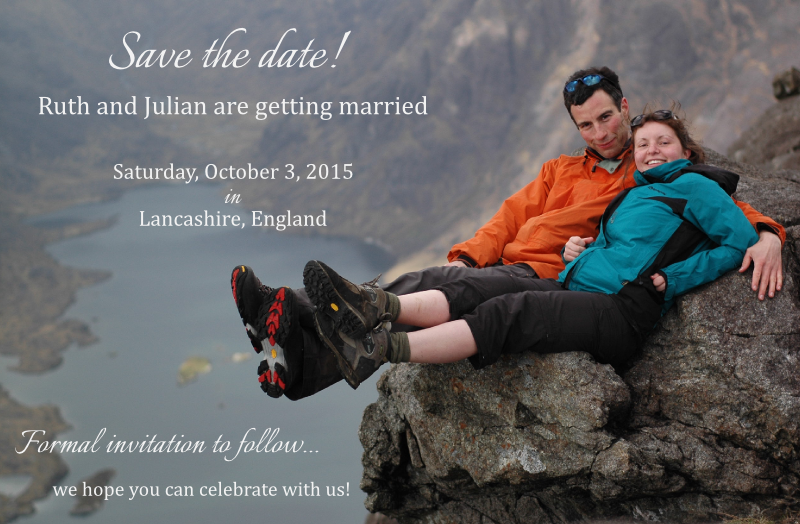
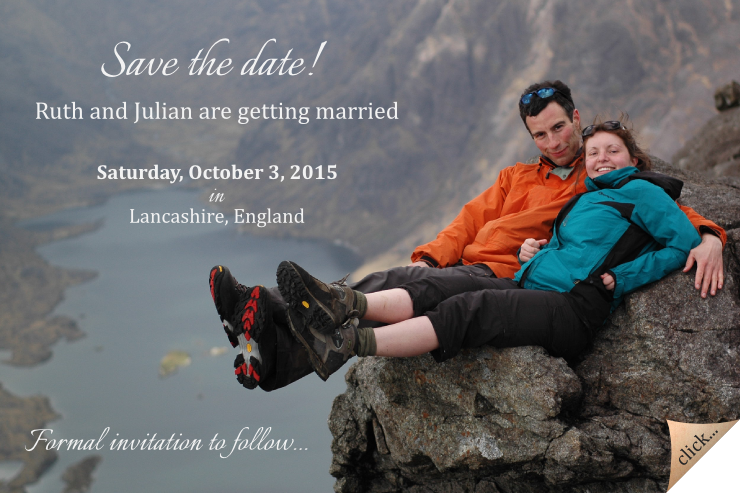
Added our own card back and new images with curled corners

diff --git a/css/postcard.css b/css/postcard.css
@@ -33,7 +33,7 @@
     -o-perspective: 1000;
     perspective: 1000;
     width: 740px;
-    height: 475px;
+    height: 493px;
 }
 
 #centered-container #offset-container #postcard-container:hover #postcard {
@@ -64,7 +64,7 @@
     -o-transition: 1s;
     transition: 1s;
     width: 740px;
-    height: 475px;
+    height: 493px;
 }
 
 #centered-container #offset-container #postcard-container #postcard .face {
@@ -94,7 +94,7 @@
     position: absolute;
     background-repeat: no-repeat;
     width: 740px;
-    height: 475px;
+    height: 493px;
 //    background: url(http://jenandjonnie.com/images/pa.jpg);
 	background: url(../card-front.png);
 }
@@ -102,7 +102,7 @@
 #centered-container #offset-container #postcard-container #postcard #front .img a {
     position: absolute;
     width: 740px;
-    height: 475px;
+    height: 493px;
 }
 
 #centered-container #offset-container #postcard-container #postcard #back {
@@ -117,7 +117,7 @@
     transition: opacity 0.5s;
     background-color: #eee;
     width: 740px;
-    height: 475px;
+    height: 493px;
     opacity: 0;
 }
 
@@ -125,9 +125,10 @@
     position: absolute;
     background-repeat: no-repeat;
     width: 740px;
-    height: 475px;
+    height: 493px;
     opacity: 1;
-    background: url(http://jenandjonnie.com/images/pa-back.jpg);
+//    background: url(http://jenandjonnie.com/images/pa-back.jpg);
+	background: url(../card-back.png);
 }
 
 @media screen and (-webkit-max-device-pixel-ratio: 2) {
@@ -142,12 +143,12 @@
 
 @media screen and (-webkit-min-device-pixel-ratio: 2) {
     #front .img {
-        background-size: 740px 475px;
+        background-size: 740px 493px;
 		background: url(http://jenandjonnie.com/images/pa@2x.jpg);
     }
 
     #back .img {
-        background-size: 740px 475px;
+        background-size: 740px 493px;
 		background: url(http://jenandjonnie.com/images/pa-back@2x.jpg);
     }
 }

diff --git a/css/screen.css b/css/screen.css
@@ -26,7 +26,7 @@ body {
 	font-size: 15px;
 	color: #666666;
 	min-height: 100%;
-	background-color: #f9f9f9;
+	background-color: #ffffff;
 }
 
 p {
